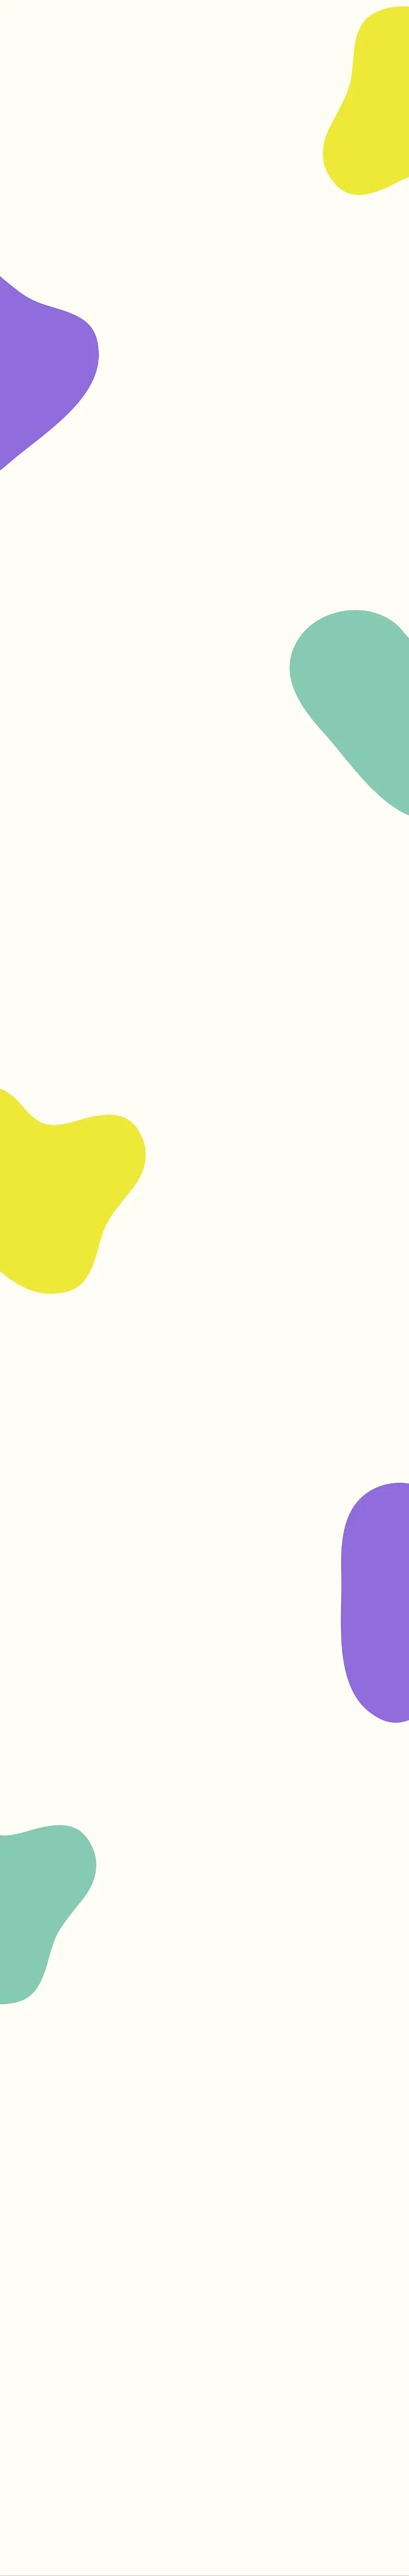
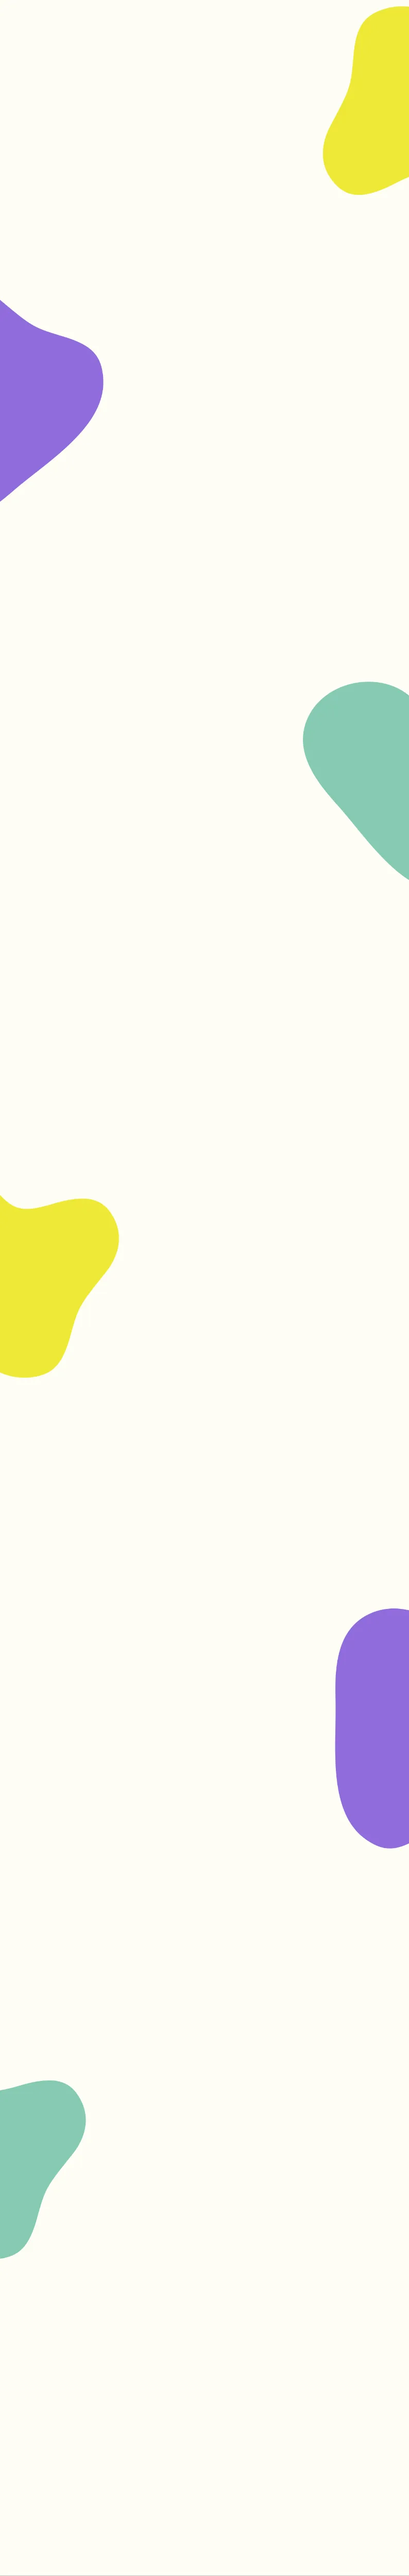
[fix] Worksセクションの背景画像差し替え、css修正

diff --git a/ja_jp/influencer/assets/css/style.css b/ja_jp/influencer/assets/css/style.css
@@ -1,1 +1,1 @@
-a,abbr,acronym,address,applet,article,aside,audio,b,big,blockquote,body,canvas,caption,center,cite,code,dd,del,details,dfn,div,dl,dt,em,embed,fieldset,figcaption,figure,footer,form,h1,h2,h3,h4,h5,h6,header,hgroup,html,i,iframe,img,ins,kbd,label,legend,li,mark,menu,nav,object,ol,output,p,pre,q,ruby,s,samp,section,small,span,strike,strong,sub,summary,sup,table,tbody,td,tfoot,th,thead,time,tr,tt,u,ul,var,video{border:0;font:inherit;font-size:100%;margin:0;padding:0;vertical-align:baseline}html{scroll-behavior:smooth}body{line-height:1}a{-webkit-text-decoration-skip:ink;text-decoration-skip-ink:auto}a[href^=tel]{color:inherit;text-decoration:none}button{outline:0}ol,ul{list-style:none}blockquote,q{quotes:none}blockquote:after,blockquote:before,q:after,q:before{content:"";content:none}q{display:inline;font-style:italic}q:after,q:before{content:'"';font-style:normal}input[type=button],input[type=password],input[type=reset],input[type=search],input[type=submit],input[type=text],textarea{-webkit-appearance:none;-moz-appearance:none;appearance:none;border-radius:0}input[type=search]{-webkit-appearance:textfield}table{border-collapse:collapse;border-spacing:0}td,th{padding:2px}big{font-size:120%}small,sub,sup{font-size:80%}sup{vertical-align:super}sub{vertical-align:sub}dd{margin-left:20px}kbd,tt{font-family:courier;font-size:12px}ins{text-decoration:underline}del,s,strike{text-decoration:line-through}dt{font-weight:700}address,cite,var{font-style:italic}article,aside,details,figcaption,figure,footer,header,hgroup,menu,nav,section{display:block}*{-webkit-tap-highlight-color:transparent;box-sizing:border-box}.screen-reader-text{clip:rect(1px,1px,1px,1px);word-wrap:normal!important;border:0;-webkit-clip-path:inset(50%);clip-path:inset(50%);height:1px;margin:-1px;overflow:hidden;padding:0;position:absolute!important;width:1px;word-break:normal}.screen-reader-text:focus{clip:auto!important;background-color:#f7f7f7;border-radius:3px;box-shadow:0 0 2px 2px rgba(0,0,0,.6);-webkit-clip-path:none;clip-path:none;color:#007acc;display:block;font-size:14px;font-size:.875rem;font-weight:700;height:auto;line-height:normal;padding:15px 23px 14px;right:5px;text-decoration:none;top:5px;width:auto;z-index:100000}.skip-link{left:-9999rem;text-decoration:underline;top:2.5rem;z-index:999999999}.skip-link:focus{display:block;font-size:14px;font-weight:600;left:6px;line-height:normal;padding:15px 23px 14px;right:auto;text-decoration:none;top:7px;z-index:100000}.form-allowed-tags:not(:focus):not(:active),.visually-hidden:not(:focus):not(:active){clip:rect(1px 1px 1px 1px);clip:rect(1px,1px,1px,1px);height:1px;overflow:hidden;position:absolute!important;white-space:nowrap;width:1px}html{font-family:sans-serif;font-size:62.5%}img{height:auto;vertical-align:bottom;width:100%}main{position:relative}.c-button{border:0;border-radius:3.125rem;cursor:pointer;display:block;padding:1.5rem 2rem;text-align:center;width:100%}.c-button span{display:inline-block;margin-right:.8rem}.c-buttonSize__normal{padding:1.5rem 2rem}.c-buttonSize__normal img{height:1.6rem;vertical-align:text-top;width:auto}.c-buttonSize__large{padding:2.2rem;scroll-margin-block:.3rem}.c-buttonSize__large img{height:auto;vertical-align:text-top;width:47.3%}.c-buttonShadow{box-shadow:0 0 5px 0 rgba(179,62,62,.25)}.c-buttonShadow__strong{box-shadow:0 0 3px 1px rgba(244,140,167,.7)}.c-bgColor__pink{background:linear-gradient(90deg,#ff5d68,#ec7298 50%,#ff5d68) 0 0 no-repeat;background-size:200% 100%;transition:.3s cubic-bezier(.45,0,.55,1)}.c-bgColor__beige{background:#fefef6}.c-bgColor__white{background:#fff}.c-contentWrap{margin:0 auto;max-width:430px}.c-section__inner{padding:6.4rem 2rem}.c-content__maxWidth{margin:0 auto;max-width:33.5rem}.c-fadein{animation:fadeIn 1.5s ease-in-out 1s forwards}@keyframes fadeIn{0%{opacity:0}25%{opacity:0}to{opacity:1}}.c-fadeinScroll{opacity:0;transition:opacity .4s ease-out,transform .4s ease-out}.c-fadeinScroll.visible{opacity:1}.c-fadeinUpScroll{opacity:0;transform:translateY(100px);transition:opacity .4s ease-out,transform .4s ease-out}.c-fadeinUpScroll.visible{opacity:1;transform:translateY(0)}.header{border-bottom:1px solid #e7e7e7;position:fixed;width:100vw;z-index:10000}.header__inner{align-items:center;display:flex;justify-content:space-between;margin:0 auto;padding:1.2rem 2rem}.header__logo{padding-inline:.7rem}.header__logo img{height:auto;width:12.1rem}.header__button{font-size:1.2rem;max-width:7.2rem}.globalNavigation{padding-inline:1rem}.globalNavigation__menu{padding:1rem 2rem}.globalNavigation__menuItem:last-of-type a{border-bottom:0;margin-bottom:0}.globalNavigation__menuItem a{border-bottom:1px dashed #fb6066;display:flex;font-size:1.4rem;padding:2rem 0}.globalNavigation #drawer__checkbox{display:none}.globalNavigation #drawer__icon{cursor:pointer;display:inline-block;height:2.3rem;margin:0;position:relative;width:2.8rem;z-index:100}.globalNavigation #drawer__icon span{background-color:#fb6066;border-radius:.2rem;display:block;height:.3rem;margin:0 0 0 -34%;position:absolute;right:0;top:50%;transition:all .3s ease-in-out 0s;width:100%}.globalNavigation #drawer__icon span:after,.globalNavigation #drawer__icon span:before{background-color:#fb6066;border-radius:.2rem;content:"";display:block;height:100%;margin:0 0 0 -50%;position:absolute;right:0;top:50%;-webkit-transform:rotate(0);transform:rotate(0);transition:all .3s ease-in-out;width:100%}.globalNavigation #drawer__icon span:before{margin-top:-40%}.globalNavigation #drawer__icon span:after{margin-top:30%}.globalNavigation #drawer__checkbox:checked~#drawer__icon span{background:rgba(51,51,51,0)}.globalNavigation #drawer__checkbox:checked~#drawer__icon span:after,.globalNavigation #drawer__checkbox:checked~#drawer__icon span:before{content:"";display:block;height:100%;left:50%;margin:0 0 0 -42%;position:absolute;top:50%;width:100%}.globalNavigation #drawer__checkbox:checked~#drawer__icon span:before{transform:rotate(-45deg)}.globalNavigation #drawer__checkbox:checked~#drawer__icon span:after{transform:rotate(45deg)}.globalNavigation #drawer__content{background:#fefef6;background-size:100% auto;height:100%;left:0;letter-spacing:.03em;max-width:100%;overflow:auto;position:fixed;top:6.5rem;transform:translateX(100%);transition:all .3s ease-in-out 0s;width:100%;z-index:40}.globalNavigation #drawer__checkbox:checked~#drawer__content{transform:translateX(0)}.globalNavigation #drawer__close{display:none;height:100%;left:0;opacity:0;position:fixed;top:0;transition:all .3s ease-in-out 0s;width:100%;z-index:39}.globalNavigation #drawer__checkbox:checked~#drawer__close{display:block;opacity:.3}.ctaArea__header{margin-bottom:2.4rem}.ctaArea__buttonMicrocopy{margin-bottom:.5rem}.ctaArea__buttonMicrocopy img{height:2.2rem}.ctaArea__bgColorPurple{background:url(../images/cta-area_bg-color-purple.webp);background-size:cover}.ctaArea__bgColorGreen{background:url(../images/cta-area_bg-color-green.webp);background-size:cover}.ctaArea__bgColorOrange{background:url(../images/cta-area_bg-color-orange.webp);background-size:cover}.ctaArea--small{background-size:cover;padding:3.2rem}.ctaArea--small__inner{margin:0 auto}.ctaArea--small__buttonShadow{box-shadow:0 0 5.4px 0 rgba(95,92,86,.56)}.ctaArea--large{background:url(../images/cta-area-large_bg-sm.webp);background-size:cover;padding:17.4rem 3.2rem}.ctaArea--large .ctaArea__header{text-align:center}.ctaArea--large .ctaArea__header img{max-width:31.1rem}.aside{display:none}.aside__inner{background:#fefef6;height:100vh;left:0;position:fixed;top:0;width:100%}.aside__left,.aside__right{display:grid;height:100vh;padding:4rem;place-content:center;position:absolute;width:calc(50% - 215px)}.aside__left{background:url(../images/aside_background-left.webp);background-position:50%;background-size:cover;left:0;place-items:center;top:0}.aside__buttonMicrocopy,.aside__leftButton,.aside__leftLogo{display:none}.aside__buttonMicrocopy{margin-bottom:.5rem;max-width:41.3rem}.aside__right{background:url(../images/aside_background-right.webp);background-position:50%;background-size:cover;right:0;top:0}.aside__navigation{display:none}.aside__navigationMenuItem{text-align:center}.aside__navigationMenuItem:last-of-type a{border-bottom:0}.aside__navigationMenuItem a{align-items:center;border-bottom:1px dashed #fb6066;display:flex;justify-content:center;margin-bottom:1.2rem;padding:2rem 0}.aside__navigationMenuItem a img{height:2.2rem;width:auto}.firstView{padding-top:6.5rem}.firstView__buttonWrap{padding-inline:2rem}.firstView__inner{background-color:#fefef6}.works{background:url(../images/works_bg-sm.webp);background-repeat:no-repeat;background-size:cover}.works__header{margin-bottom:1.2rem}.works__description{margin-bottom:3rem}.works__decorativeText{margin:0 auto 2.4rem;width:22.7rem}.works__brandItem{margin-bottom:4.8rem}.works__brandItem:last-of-type{margin-bottom:0}.reason{background-repeat:no-repeat;background-size:cover}.reason__header{margin-bottom:5rem}.reason__item{margin-bottom:7.6rem}.reason__item:last-of-type{margin-bottom:0}.influencers__header{margin-bottom:1.2rem}.influencers__description{margin-bottom:2rem}.influencers__item{margin-bottom:7.6rem}.influencers__item:last-of-type{margin-bottom:0}.steps{background:url(../images/steps_bg-parts.webp),linear-gradient(180deg,#feeeef,#ffffe7 97.41%);background-position:top,50%;background-repeat:no-repeat;background-size:100% auto}.steps__header{margin-bottom:4.6rem}.steps__item{margin-bottom:7.6rem}.steps__item:last-of-type{margin-bottom:0}.registrationProcess{background-color:#fefef6;background-image:url(../images/registration-process_bg.webp);background-repeat:no-repeat;background-size:cover}.registrationProcess__header{margin-bottom:2rem}.registrationProcess__videoContainer{border-radius:13px;cursor:pointer;height:0;overflow:hidden;padding-bottom:56.25%;position:relative;width:100%}.registrationProcess__videoContainer iframe{border:0;height:100%;left:0;position:absolute;top:0;width:100%}.registrationProcess .customThumbnailOverlay{align-items:center;background-color:transparent;border-radius:13px;cursor:pointer;display:flex;height:100%;justify-content:center;left:0;opacity:1;overflow:hidden;position:absolute;top:0;transition:opacity .3s ease-in-out;width:100%;z-index:20}.registrationProcess .customThumbnailOverlay.hide{opacity:0;pointer-events:none}.registrationProcess .customThumbnailOverlay img{display:block;height:100%;-o-object-fit:cover;object-fit:cover;width:100%}.registrationProcess .videoEndedOverlay{align-items:center;background-color:rgba(0,0,0,.85);border-radius:13px;box-sizing:border-box;color:#fff;display:flex;flex-direction:column;font-size:1.2em;height:100%;justify-content:center;left:0;opacity:0;padding:20px;pointer-events:none;position:absolute;text-align:center;top:0;transition:opacity .3s ease-in-out;width:100%;z-index:10}.registrationProcess .videoEndedOverlay.show{opacity:1;pointer-events:auto}.registrationProcess .videoEndedOverlay .overlay-link,.registrationProcess .videoEndedOverlay button{background-color:#e62117;border:none;border-radius:5px;color:#fff;cursor:pointer;display:inline-block;font-size:1.1em;margin:8px 0;padding:12px 25px;text-decoration:none;transition:background-color .2s ease}.registrationProcess .videoEndedOverlay .overlay-link:hover,.registrationProcess .videoEndedOverlay button:hover{background-color:#c00}.applicationProcess{background:url(../images/application-process_bg.webp);background-repeat:no-repeat;background-size:cover}.faq{background:linear-gradient(180deg,#feeeef,#ffffe7 97.41%);background-size:100% auto}.faq__header{margin-bottom:4.8rem}.faq summary{list-style:none}.faq summary::-webkit-details-marker{display:none}.faq__listItem{border-top:1px solid #dad9d9;cursor:pointer;padding-top:2rem}.faq__listItem:last-of-type{margin-bottom:0}.faq__listItem[open] .faq__listItemQuestion:after{transform:translateY(-50%) rotate(180deg)}.faq__listItemQuestion{margin-bottom:2rem;padding-right:5.6rem;position:relative}.faq__listItemQuestion:after{background:url(../images/faq_list-item-question_arrow-icon.webp);background-repeat:no-repeat;background-size:100% auto;content:"";display:block;height:32px;position:absolute;right:0;top:50%;transform:translateY(-50%);width:32px}.faq__listItemAnswer{padding-bottom:2rem}.footer{position:relative}.footer__inner{padding:2rem;text-align:center}.footer__logo{margin-bottom:2.5rem;text-align:center}.footer__logo img{height:4.6rem;width:auto}.footer__menu{display:flex;gap:2.4rem;justify-content:center;margin-bottom:2rem}.footer__menuItem a{align-items:center;color:#153496;display:flex;font-size:1.2rem;line-height:1.5;padding-block:.5rem;text-decoration:none}.footer__menuItem a:after{background:url(../images/footer_menu-item-arrrow.webp);background-position:50%;background-repeat:no-repeat;background-size:100% auto;content:"";display:block;height:1.5rem;margin-left:.5rem;width:1.5rem}.footer__copyright{color:#707070;font-size:1.2rem;line-height:1.5;padding:.8rem}@media screen and (min-width:1024px){.c-bgColor__pink:hover{background-position:100% 0}}@media screen and (min-width:1200px){.c-contentWrap{box-shadow:0 0 7.6px 0 rgba(0,0,0,.25);position:relative}.header{border-bottom:0}.header__inner{justify-content:center;padding:1rem;position:static}.header__logo{left:auto;position:static;transform:translateX(0)}.header__logo img{width:13.5rem}.globalNavigation #drawer__content,.globalNavigation #drawer__icon,.header__button{display:none}.aside{padding-top:6.6rem}.aside__buttonMicrocopy,.aside__leftButton,.aside__leftLogo{display:block}.aside__leftLogo{height:auto;margin-bottom:5.5rem;max-width:32.4rem}.aside__leftButton{max-width:41.3rem}.aside__leftButton img{height:1.6rem;width:auto}.aside__navigation{display:block;max-width:30.5rem}.firstView{padding-top:0}}@media screen and (min-width:500px){.c-content__maxWidth{max-width:100%}.globalNavigation__menu{margin:0 auto;max-width:500px;padding:3.6rem}.globalNavigation__menuItem{text-align:center}.ctaArea--large{background:url(../images/cta-area-large_bg-lg.webp);background-size:cover;padding:16rem 3.2rem}}@media screen and (min-width:431px){.aside{display:block}}@media screen and (min-width:430px){.works{background:url(../images/works_bg-lg.webp);background-repeat:no-repeat;background-size:cover}}
+a,abbr,acronym,address,applet,article,aside,audio,b,big,blockquote,body,canvas,caption,center,cite,code,dd,del,details,dfn,div,dl,dt,em,embed,fieldset,figcaption,figure,footer,form,h1,h2,h3,h4,h5,h6,header,hgroup,html,i,iframe,img,ins,kbd,label,legend,li,mark,menu,nav,object,ol,output,p,pre,q,ruby,s,samp,section,small,span,strike,strong,sub,summary,sup,table,tbody,td,tfoot,th,thead,time,tr,tt,u,ul,var,video{border:0;font:inherit;font-size:100%;margin:0;padding:0;vertical-align:baseline}html{scroll-behavior:smooth}body{line-height:1}a{-webkit-text-decoration-skip:ink;text-decoration-skip-ink:auto}a[href^=tel]{color:inherit;text-decoration:none}button{outline:0}ol,ul{list-style:none}blockquote,q{quotes:none}blockquote:after,blockquote:before,q:after,q:before{content:"";content:none}q{display:inline;font-style:italic}q:after,q:before{content:'"';font-style:normal}input[type=button],input[type=password],input[type=reset],input[type=search],input[type=submit],input[type=text],textarea{-webkit-appearance:none;-moz-appearance:none;appearance:none;border-radius:0}input[type=search]{-webkit-appearance:textfield}table{border-collapse:collapse;border-spacing:0}td,th{padding:2px}big{font-size:120%}small,sub,sup{font-size:80%}sup{vertical-align:super}sub{vertical-align:sub}dd{margin-left:20px}kbd,tt{font-family:courier;font-size:12px}ins{text-decoration:underline}del,s,strike{text-decoration:line-through}dt{font-weight:700}address,cite,var{font-style:italic}article,aside,details,figcaption,figure,footer,header,hgroup,menu,nav,section{display:block}*{-webkit-tap-highlight-color:transparent;box-sizing:border-box}.screen-reader-text{clip:rect(1px,1px,1px,1px);word-wrap:normal!important;border:0;-webkit-clip-path:inset(50%);clip-path:inset(50%);height:1px;margin:-1px;overflow:hidden;padding:0;position:absolute!important;width:1px;word-break:normal}.screen-reader-text:focus{clip:auto!important;background-color:#f7f7f7;border-radius:3px;box-shadow:0 0 2px 2px rgba(0,0,0,.6);-webkit-clip-path:none;clip-path:none;color:#007acc;display:block;font-size:14px;font-size:.875rem;font-weight:700;height:auto;line-height:normal;padding:15px 23px 14px;right:5px;text-decoration:none;top:5px;width:auto;z-index:100000}.skip-link{left:-9999rem;text-decoration:underline;top:2.5rem;z-index:999999999}.skip-link:focus{display:block;font-size:14px;font-weight:600;left:6px;line-height:normal;padding:15px 23px 14px;right:auto;text-decoration:none;top:7px;z-index:100000}.form-allowed-tags:not(:focus):not(:active),.visually-hidden:not(:focus):not(:active){clip:rect(1px 1px 1px 1px);clip:rect(1px,1px,1px,1px);height:1px;overflow:hidden;position:absolute!important;white-space:nowrap;width:1px}html{font-family:sans-serif;font-size:62.5%}img{height:auto;vertical-align:bottom;width:100%}main{position:relative}.c-button{border:0;border-radius:3.125rem;cursor:pointer;display:block;padding:1.5rem 2rem;text-align:center;width:100%}.c-button span{display:inline-block;margin-right:.8rem}.c-buttonSize__normal{padding:1.5rem 2rem}.c-buttonSize__normal img{height:1.6rem;vertical-align:text-top;width:auto}.c-buttonSize__large{padding:2.2rem;scroll-margin-block:.3rem}.c-buttonSize__large img{height:auto;vertical-align:text-top;width:47.3%}.c-buttonShadow{box-shadow:0 0 5px 0 rgba(179,62,62,.25)}.c-buttonShadow__strong{box-shadow:0 0 3px 1px rgba(244,140,167,.7)}.c-bgColor__pink{background:linear-gradient(90deg,#ff5d68,#ec7298 50%,#ff5d68) 0 0 no-repeat;background-size:200% 100%;transition:.3s cubic-bezier(.45,0,.55,1)}.c-bgColor__beige{background:#fefef6}.c-bgColor__white{background:#fff}.c-contentWrap{margin:0 auto;max-width:430px}.c-section__inner{padding:6.4rem 2rem}.c-content__maxWidth{margin:0 auto;max-width:33.5rem}.c-fadein{animation:fadeIn 1.5s ease-in-out 1s forwards}@keyframes fadeIn{0%{opacity:0}25%{opacity:0}to{opacity:1}}.c-fadeinScroll{opacity:0;transition:opacity .4s ease-out,transform .4s ease-out}.c-fadeinScroll.visible{opacity:1}.c-fadeinUpScroll{opacity:0;transform:translateY(100px);transition:opacity .4s ease-out,transform .4s ease-out}.c-fadeinUpScroll.visible{opacity:1;transform:translateY(0)}.header{border-bottom:1px solid #e7e7e7;position:fixed;width:100vw;z-index:10000}.header__inner{align-items:center;display:flex;justify-content:space-between;margin:0 auto;padding:1.2rem 2rem}.header__logo{padding-inline:.7rem}.header__logo img{height:auto;width:12.1rem}.header__button{font-size:1.2rem;max-width:7.2rem}.globalNavigation{padding-inline:1rem}.globalNavigation__menu{padding:1rem 2rem}.globalNavigation__menuItem:last-of-type a{border-bottom:0;margin-bottom:0}.globalNavigation__menuItem a{border-bottom:1px dashed #fb6066;display:flex;font-size:1.4rem;padding:2rem 0}.globalNavigation #drawer__checkbox{display:none}.globalNavigation #drawer__icon{cursor:pointer;display:inline-block;height:2.3rem;margin:0;position:relative;width:2.8rem;z-index:100}.globalNavigation #drawer__icon span{background-color:#fb6066;border-radius:.2rem;display:block;height:.3rem;margin:0 0 0 -34%;position:absolute;right:0;top:50%;transition:all .3s ease-in-out 0s;width:100%}.globalNavigation #drawer__icon span:after,.globalNavigation #drawer__icon span:before{background-color:#fb6066;border-radius:.2rem;content:"";display:block;height:100%;margin:0 0 0 -50%;position:absolute;right:0;top:50%;-webkit-transform:rotate(0);transform:rotate(0);transition:all .3s ease-in-out;width:100%}.globalNavigation #drawer__icon span:before{margin-top:-40%}.globalNavigation #drawer__icon span:after{margin-top:30%}.globalNavigation #drawer__checkbox:checked~#drawer__icon span{background:rgba(51,51,51,0)}.globalNavigation #drawer__checkbox:checked~#drawer__icon span:after,.globalNavigation #drawer__checkbox:checked~#drawer__icon span:before{content:"";display:block;height:100%;left:50%;margin:0 0 0 -42%;position:absolute;top:50%;width:100%}.globalNavigation #drawer__checkbox:checked~#drawer__icon span:before{transform:rotate(-45deg)}.globalNavigation #drawer__checkbox:checked~#drawer__icon span:after{transform:rotate(45deg)}.globalNavigation #drawer__content{background:#fefef6;background-size:100% auto;height:100%;left:0;letter-spacing:.03em;max-width:100%;overflow:auto;position:fixed;top:6.5rem;transform:translateX(100%);transition:all .3s ease-in-out 0s;width:100%;z-index:40}.globalNavigation #drawer__checkbox:checked~#drawer__content{transform:translateX(0)}.globalNavigation #drawer__close{display:none;height:100%;left:0;opacity:0;position:fixed;top:0;transition:all .3s ease-in-out 0s;width:100%;z-index:39}.globalNavigation #drawer__checkbox:checked~#drawer__close{display:block;opacity:.3}.ctaArea__header{margin-bottom:2.4rem}.ctaArea__buttonMicrocopy{margin-bottom:.5rem}.ctaArea__buttonMicrocopy img{height:2.2rem}.ctaArea__bgColorPurple{background:url(../images/cta-area_bg-color-purple.webp);background-size:cover}.ctaArea__bgColorGreen{background:url(../images/cta-area_bg-color-green.webp);background-size:cover}.ctaArea__bgColorOrange{background:url(../images/cta-area_bg-color-orange.webp);background-size:cover}.ctaArea--small{background-size:cover;padding:3.2rem}.ctaArea--small__inner{margin:0 auto}.ctaArea--small__buttonShadow{box-shadow:0 0 5.4px 0 rgba(95,92,86,.56)}.ctaArea--large{background:url(../images/cta-area-large_bg-sm.webp);background-size:cover;padding:17.4rem 3.2rem}.ctaArea--large .ctaArea__header{text-align:center}.ctaArea--large .ctaArea__header img{max-width:31.1rem}.aside{display:none}.aside__inner{background:#fefef6;height:100vh;left:0;position:fixed;top:0;width:100%}.aside__left,.aside__right{display:grid;height:100vh;padding:4rem;place-content:center;position:absolute;width:calc(50% - 215px)}.aside__left{background:url(../images/aside_background-left.webp);background-position:50%;background-size:cover;left:0;place-items:center;top:0}.aside__buttonMicrocopy,.aside__leftButton,.aside__leftLogo{display:none}.aside__buttonMicrocopy{margin-bottom:.5rem;max-width:41.3rem}.aside__right{background:url(../images/aside_background-right.webp);background-position:50%;background-size:cover;right:0;top:0}.aside__navigation{display:none}.aside__navigationMenuItem{text-align:center}.aside__navigationMenuItem:last-of-type a{border-bottom:0}.aside__navigationMenuItem a{align-items:center;border-bottom:1px dashed #fb6066;display:flex;justify-content:center;margin-bottom:1.2rem;padding:2rem 0}.aside__navigationMenuItem a img{height:2.2rem;width:auto}.firstView{padding-top:6.5rem}.firstView__buttonWrap{padding-inline:2rem}.firstView__inner{background-color:#fefef6}.works{background:url(../images/works_bg-sm.webp);background-repeat:no-repeat;background-size:cover}.works__header{margin-bottom:1.2rem}.works__description{margin-bottom:3rem;text-align:center}.works__description img{max-width:33.5rem}.works__decorativeText{margin:0 auto 2.4rem;width:22.7rem}.works__brandItem{margin-bottom:4.8rem}.works__brandItem:last-of-type{margin-bottom:0}.reason{background-repeat:no-repeat;background-size:cover}.reason__header{margin-bottom:5rem}.reason__item{margin-bottom:7.6rem}.reason__item:last-of-type{margin-bottom:0}.influencers__header{margin-bottom:1.2rem}.influencers__description{margin-bottom:2rem}.influencers__item{margin-bottom:7.6rem}.influencers__item:last-of-type{margin-bottom:0}.steps{background:url(../images/steps_bg-parts.webp),linear-gradient(180deg,#feeeef,#ffffe7 97.41%);background-position:top,50%;background-repeat:no-repeat;background-size:100% auto}.steps__header{margin-bottom:4.6rem}.steps__item{margin-bottom:7.6rem}.steps__item:last-of-type{margin-bottom:0}.registrationProcess{background-color:#fefef6;background-image:url(../images/registration-process_bg.webp);background-repeat:no-repeat;background-size:cover}.registrationProcess__header{margin-bottom:2rem}.registrationProcess__videoContainer{border-radius:13px;cursor:pointer;height:0;overflow:hidden;padding-bottom:56.25%;position:relative;width:100%}.registrationProcess__videoContainer iframe{border:0;height:100%;left:0;position:absolute;top:0;width:100%}.registrationProcess .customThumbnailOverlay{align-items:center;background-color:transparent;border-radius:13px;cursor:pointer;display:flex;height:100%;justify-content:center;left:0;opacity:1;overflow:hidden;position:absolute;top:0;transition:opacity .3s ease-in-out;width:100%;z-index:20}.registrationProcess .customThumbnailOverlay.hide{opacity:0;pointer-events:none}.registrationProcess .customThumbnailOverlay img{display:block;height:100%;-o-object-fit:cover;object-fit:cover;width:100%}.registrationProcess .videoEndedOverlay{align-items:center;background-color:rgba(0,0,0,.85);border-radius:13px;box-sizing:border-box;color:#fff;display:flex;flex-direction:column;font-size:1.2em;height:100%;justify-content:center;left:0;opacity:0;padding:20px;pointer-events:none;position:absolute;text-align:center;top:0;transition:opacity .3s ease-in-out;width:100%;z-index:10}.registrationProcess .videoEndedOverlay.show{opacity:1;pointer-events:auto}.registrationProcess .videoEndedOverlay .overlay-link,.registrationProcess .videoEndedOverlay button{background-color:#e62117;border:none;border-radius:5px;color:#fff;cursor:pointer;display:inline-block;font-size:1.1em;margin:8px 0;padding:12px 25px;text-decoration:none;transition:background-color .2s ease}.registrationProcess .videoEndedOverlay .overlay-link:hover,.registrationProcess .videoEndedOverlay button:hover{background-color:#c00}.applicationProcess{background:url(../images/application-process_bg.webp);background-repeat:no-repeat;background-size:cover}.faq{background:linear-gradient(180deg,#feeeef,#ffffe7 97.41%);background-size:100% auto}.faq__header{margin-bottom:4.8rem}.faq summary{list-style:none}.faq summary::-webkit-details-marker{display:none}.faq__listItem{border-top:1px solid #dad9d9;cursor:pointer;padding-top:2rem}.faq__listItem:last-of-type{margin-bottom:0}.faq__listItem[open] .faq__listItemQuestion:after{transform:translateY(-50%) rotate(180deg)}.faq__listItemQuestion{margin-bottom:2rem;padding-right:5.6rem;position:relative}.faq__listItemQuestion:after{background:url(../images/faq_list-item-question_arrow-icon.webp);background-repeat:no-repeat;background-size:100% auto;content:"";display:block;height:32px;position:absolute;right:0;top:50%;transform:translateY(-50%);width:32px}.faq__listItemAnswer{padding-bottom:2rem}.footer{position:relative}.footer__inner{padding:2rem;text-align:center}.footer__logo{margin-bottom:2.5rem;text-align:center}.footer__logo img{height:4.6rem;width:auto}.footer__menu{display:flex;gap:2.4rem;justify-content:center;margin-bottom:2rem}.footer__menuItem a{align-items:center;color:#153496;display:flex;font-size:1.2rem;line-height:1.5;padding-block:.5rem;text-decoration:none}.footer__menuItem a:after{background:url(../images/footer_menu-item-arrrow.webp);background-position:50%;background-repeat:no-repeat;background-size:100% auto;content:"";display:block;height:1.5rem;margin-left:.5rem;width:1.5rem}.footer__copyright{color:#707070;font-size:1.2rem;line-height:1.5;padding:.8rem}@media screen and (min-width:1024px){.c-bgColor__pink:hover{background-position:100% 0}}@media screen and (min-width:1200px){.c-contentWrap{box-shadow:0 0 7.6px 0 rgba(0,0,0,.25);position:relative}.header{border-bottom:0}.header__inner{justify-content:center;padding:1rem;position:static}.header__logo{left:auto;position:static;transform:translateX(0)}.header__logo img{width:13.5rem}.globalNavigation #drawer__content,.globalNavigation #drawer__icon,.header__button{display:none}.aside{padding-top:6.6rem}.aside__buttonMicrocopy,.aside__leftButton,.aside__leftLogo{display:block}.aside__leftLogo{height:auto;margin-bottom:5.5rem;max-width:32.4rem}.aside__leftButton{max-width:41.3rem}.aside__leftButton img{height:1.6rem;width:auto}.aside__navigation{display:block;max-width:30.5rem}.firstView{padding-top:0}}@media screen and (min-width:500px){.c-content__maxWidth{max-width:100%}.globalNavigation__menu{margin:0 auto;max-width:500px;padding:3.6rem}.globalNavigation__menuItem{text-align:center}.ctaArea--large{background:url(../images/cta-area-large_bg-lg.webp);background-size:cover;padding:16rem 3.2rem}}@media screen and (min-width:431px){.aside{display:block}}@media screen and (min-width:430px){.works{background:url(../images/works_bg-lg.webp);background-repeat:no-repeat;background-size:cover}}

diff --git a/ja_jp/influencer/src/sass/_works.scss b/ja_jp/influencer/src/sass/_works.scss
@@ -17,6 +17,11 @@
 
     &__description {
         margin-bottom: 3rem;
+        text-align: center;
+
+        img {
+            max-width: 33.5rem;
+        }
     }
 
     &__decorativeText {
